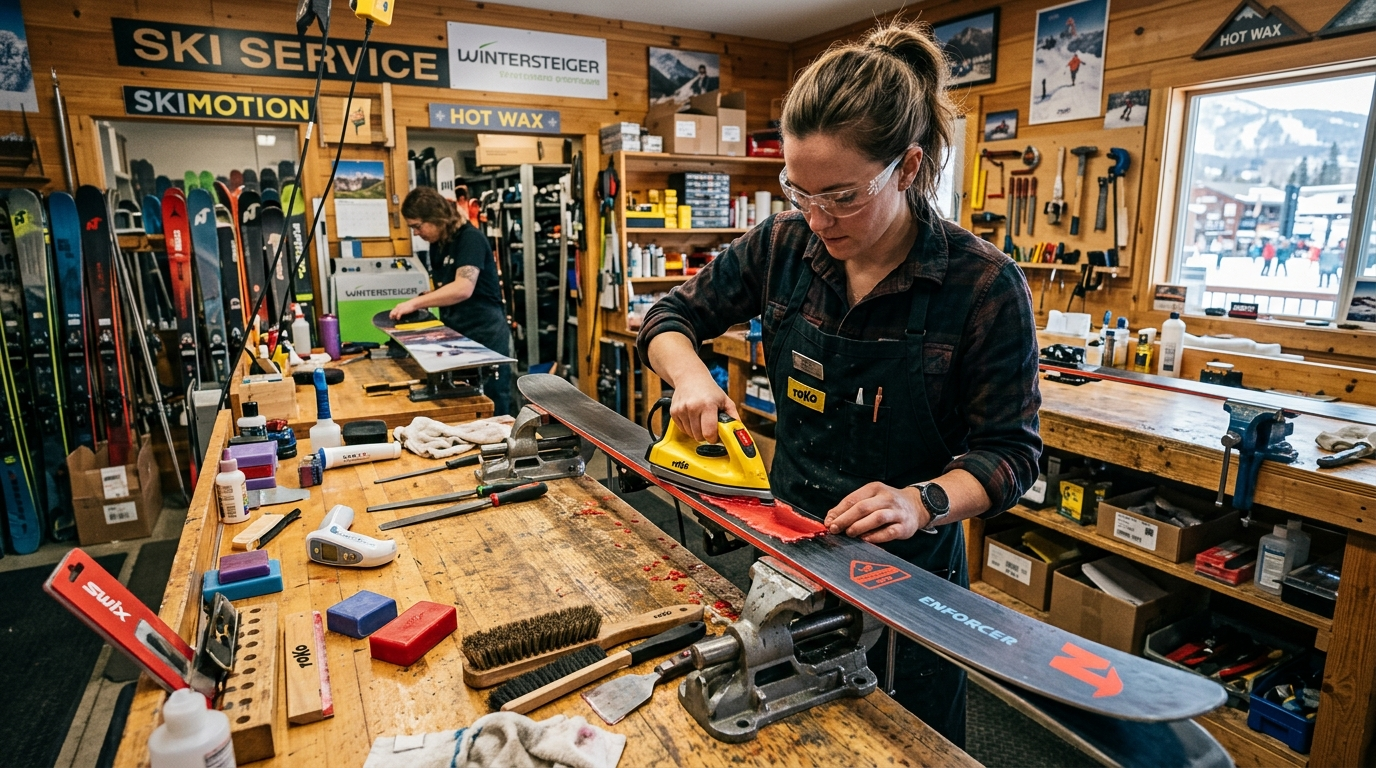
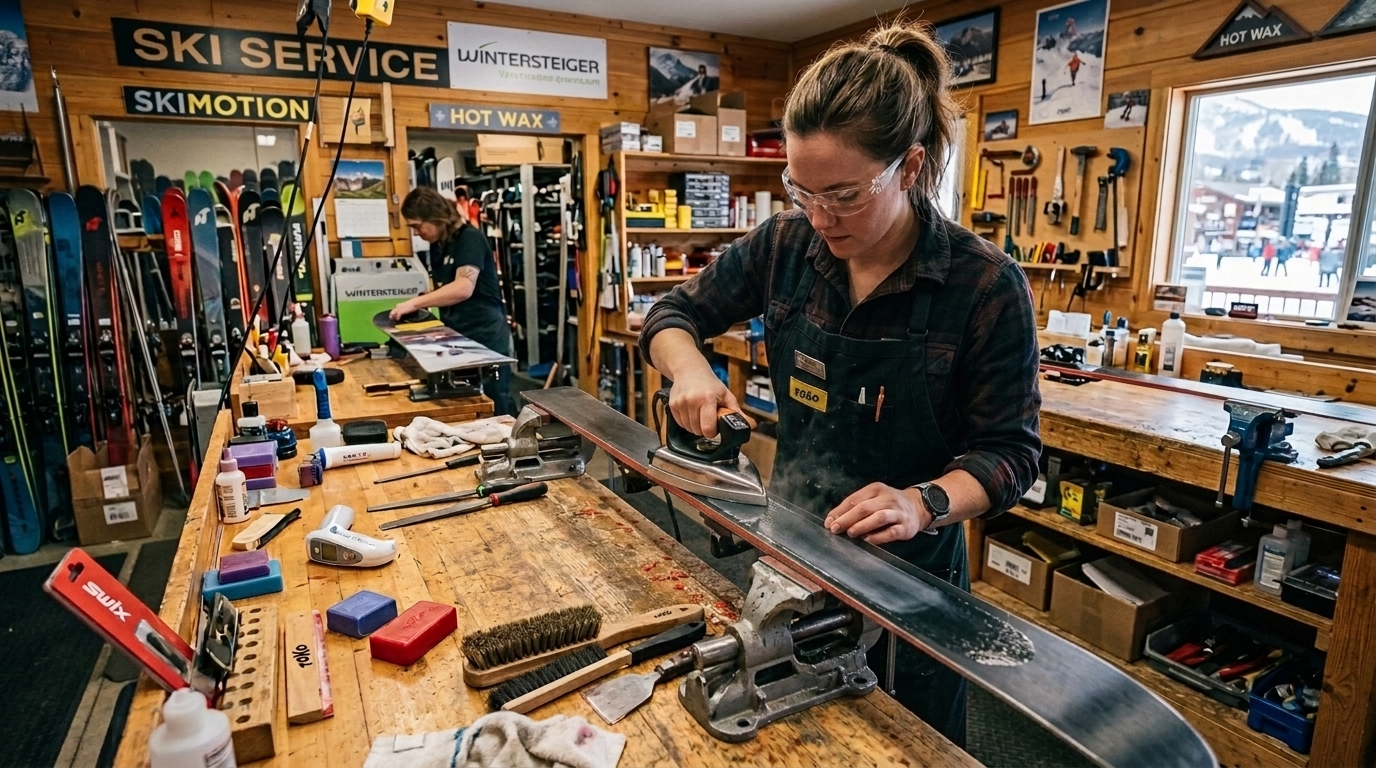
Ski shop showcase: centred hero and booking bar, new tuning-workshop photo

diff --git a/docs/ski-shop/index.html b/docs/ski-shop/index.html
@@ -200,21 +200,34 @@
     }
     .hero .container {
       width: 100%;
-      max-width: 1380px;
+      max-width: 100%;
+      margin: 0;
+      padding: 0;
     }
     .hero-split-grid {
       width: 100%;
       position: relative;
       z-index: 2;
       display: grid;
-      grid-template-columns: 1fr auto;
-      gap: 56px;
-      align-items: flex-start;
-      justify-content: space-between;
+      grid-template-columns: 1fr minmax(auto, 760px) 1fr;
+      align-items: center;
+    }
+    .hero-split-grid::before {
+      content: "";
+      display: block;
+      grid-column: 1;
     }
     .hero-content {
+      grid-column: 2;
       color: #FFFFFF;
-      max-width: 650px;
+      max-width: 760px;
+      width: 100%;
+      margin: 0 auto;
+      text-align: center;
+      display: flex;
+      flex-direction: column;
+      align-items: center;
+      padding: 0 16px;
     }
     .hero-tagline {
       display: inline-flex;
@@ -229,7 +242,7 @@
       font-weight: 700;
       letter-spacing: 0.5px;
       text-transform: uppercase;
-      margin-bottom: 20px;
+      margin: 0 auto 20px auto;
     }
     .hero h2 {
       font-family: var(--font-display);
@@ -239,13 +252,16 @@
       letter-spacing: -1px;
       margin-bottom: 18px;
       text-shadow: 0 2px 10px rgba(0, 0, 0, 0.35);
+      text-align: center;
+      max-width: 760px;
     }
     .hero p.lead {
       font-size: clamp(1rem, 1.8vw, 1.2rem);
       line-height: 1.6;
       color: #F1F5F9;
-      margin-bottom: 28px;
-      max-width: 580px;
+      margin: 0 auto 28px auto;
+      max-width: 620px;
+      text-align: center;
     }
 
     /* Hero Booking Bar */
@@ -258,6 +274,10 @@
       grid-template-columns: repeat(auto-fit, minmax(140px, 1fr)) 150px;
       gap: 14px;
       align-items: center;
+      width: 100%;
+      max-width: 780px;
+      margin: 0 auto;
+      text-align: left;
     }
     .field-box {
       border-right: 1px solid var(--line-subtle);
@@ -308,8 +328,9 @@
 
     /* Compact Frosted Alpine Snow Conditions HUD (Blends with mountain hero) */
     .snow-tracker-card {
+      grid-column: 3;
       width: 100%;
-      max-width: 290px;
+      max-width: 280px;
       background: rgba(255, 255, 255, 0.88);
       backdrop-filter: blur(16px);
       -webkit-backdrop-filter: blur(16px);
@@ -320,9 +341,9 @@
       position: relative;
       overflow: hidden;
       color: var(--ink-primary);
-      justify-self: end;
-      align-self: flex-start;
-      margin-top: 4px;
+      justify-self: center;
+      align-self: center;
+      margin: 0 auto;
     }
     .snow-tracker-card::before {
       content: "";
@@ -1147,9 +1168,27 @@
     }
 
     /* Responsive */
+    @media (max-width: 1180px) {
+      .hero-split-grid {
+        grid-template-columns: 1fr;
+        gap: 32px;
+        padding: 0 24px;
+      }
+      .hero-split-grid::before {
+        display: none;
+      }
+      .hero-content {
+        grid-column: 1;
+        max-width: 760px;
+      }
+      .snow-tracker-card {
+        grid-column: 1;
+        max-width: 360px;
+        margin: 0 auto;
+        justify-self: center;
+      }
+    }
     @media (max-width: 960px) {
-      .hero-split-grid { grid-template-columns: 1fr; }
-      .snow-tracker-card { max-width: 100%; margin-top: 24px; justify-self: stretch; }
       .story-grid, .workshop-grid, .fleet-banner-card, .hotline-card { grid-template-columns: 1fr; }
       .footer-grid { grid-template-columns: 1fr 1fr; }
       .nav-menu { display: none; }
@@ -1291,7 +1330,7 @@
           </div>
 
           <!-- Real-time Rental Calculator Feedback Badge -->
-          <div id="bookingEstimateBadge" style="margin-top: 14px; font-size: 13.5px; font-weight: 600; color: var(--mountain-red); background: rgba(255, 255, 255, 0.94); backdrop-filter: blur(10px); padding: 8px 18px; border-radius: 9999px; display: inline-flex; align-items: center; gap: 8px; border: 1px solid rgba(217, 56, 30, 0.22); box-shadow: var(--shadow-subtle);">
+          <div id="bookingEstimateBadge" style="margin: 14px auto 0 auto; font-size: 13.5px; font-weight: 600; color: var(--mountain-red); background: rgba(255, 255, 255, 0.94); backdrop-filter: blur(10px); padding: 8px 18px; border-radius: 9999px; display: inline-flex; align-items: center; justify-content: center; gap: 8px; border: 1px solid rgba(217, 56, 30, 0.22); box-shadow: var(--shadow-subtle);">
             <span>⚡ Rate Calculation:</span>
             <span id="bookingEstimateText">3 Days @ $63.75/day = $191.25 CAD (15% Multi-Day Discount Applied)</span>
           </div>

diff --git a/shop-showcase/index.html b/shop-showcase/index.html
@@ -200,21 +200,34 @@
     }
     .hero .container {
       width: 100%;
-      max-width: 1380px;
+      max-width: 100%;
+      margin: 0;
+      padding: 0;
     }
     .hero-split-grid {
       width: 100%;
       position: relative;
       z-index: 2;
       display: grid;
-      grid-template-columns: 1fr auto;
-      gap: 56px;
-      align-items: flex-start;
-      justify-content: space-between;
+      grid-template-columns: 1fr minmax(auto, 760px) 1fr;
+      align-items: center;
+    }
+    .hero-split-grid::before {
+      content: "";
+      display: block;
+      grid-column: 1;
     }
     .hero-content {
+      grid-column: 2;
       color: #FFFFFF;
-      max-width: 650px;
+      max-width: 760px;
+      width: 100%;
+      margin: 0 auto;
+      text-align: center;
+      display: flex;
+      flex-direction: column;
+      align-items: center;
+      padding: 0 16px;
     }
     .hero-tagline {
       display: inline-flex;
@@ -229,7 +242,7 @@
       font-weight: 700;
       letter-spacing: 0.5px;
       text-transform: uppercase;
-      margin-bottom: 20px;
+      margin: 0 auto 20px auto;
     }
     .hero h2 {
       font-family: var(--font-display);
@@ -239,13 +252,16 @@
       letter-spacing: -1px;
       margin-bottom: 18px;
       text-shadow: 0 2px 10px rgba(0, 0, 0, 0.35);
+      text-align: center;
+      max-width: 760px;
     }
     .hero p.lead {
       font-size: clamp(1rem, 1.8vw, 1.2rem);
       line-height: 1.6;
       color: #F1F5F9;
-      margin-bottom: 28px;
-      max-width: 580px;
+      margin: 0 auto 28px auto;
+      max-width: 620px;
+      text-align: center;
     }
 
     /* Hero Booking Bar */
@@ -258,6 +274,10 @@
       grid-template-columns: repeat(auto-fit, minmax(140px, 1fr)) 150px;
       gap: 14px;
       align-items: center;
+      width: 100%;
+      max-width: 780px;
+      margin: 0 auto;
+      text-align: left;
     }
     .field-box {
       border-right: 1px solid var(--line-subtle);
@@ -308,8 +328,9 @@
 
     /* Compact Frosted Alpine Snow Conditions HUD (Blends with mountain hero) */
     .snow-tracker-card {
+      grid-column: 3;
       width: 100%;
-      max-width: 290px;
+      max-width: 280px;
       background: rgba(255, 255, 255, 0.88);
       backdrop-filter: blur(16px);
       -webkit-backdrop-filter: blur(16px);
@@ -320,9 +341,9 @@
       position: relative;
       overflow: hidden;
       color: var(--ink-primary);
-      justify-self: end;
-      align-self: flex-start;
-      margin-top: 4px;
+      justify-self: center;
+      align-self: center;
+      margin: 0 auto;
     }
     .snow-tracker-card::before {
       content: "";
@@ -1147,9 +1168,27 @@
     }
 
     /* Responsive */
+    @media (max-width: 1180px) {
+      .hero-split-grid {
+        grid-template-columns: 1fr;
+        gap: 32px;
+        padding: 0 24px;
+      }
+      .hero-split-grid::before {
+        display: none;
+      }
+      .hero-content {
+        grid-column: 1;
+        max-width: 760px;
+      }
+      .snow-tracker-card {
+        grid-column: 1;
+        max-width: 360px;
+        margin: 0 auto;
+        justify-self: center;
+      }
+    }
     @media (max-width: 960px) {
-      .hero-split-grid { grid-template-columns: 1fr; }
-      .snow-tracker-card { max-width: 100%; margin-top: 24px; justify-self: stretch; }
       .story-grid, .workshop-grid, .fleet-banner-card, .hotline-card { grid-template-columns: 1fr; }
       .footer-grid { grid-template-columns: 1fr 1fr; }
       .nav-menu { display: none; }
@@ -1289,7 +1328,7 @@
           </div>
 
           <!-- Real-time Rental Calculator Feedback Badge -->
-          <div id="bookingEstimateBadge" style="margin-top: 14px; font-size: 13.5px; font-weight: 600; color: var(--mountain-red); background: rgba(255, 255, 255, 0.94); backdrop-filter: blur(10px); padding: 8px 18px; border-radius: 9999px; display: inline-flex; align-items: center; gap: 8px; border: 1px solid rgba(217, 56, 30, 0.22); box-shadow: var(--shadow-subtle);">
+          <div id="bookingEstimateBadge" style="margin: 14px auto 0 auto; font-size: 13.5px; font-weight: 600; color: var(--mountain-red); background: rgba(255, 255, 255, 0.94); backdrop-filter: blur(10px); padding: 8px 18px; border-radius: 9999px; display: inline-flex; align-items: center; justify-content: center; gap: 8px; border: 1px solid rgba(217, 56, 30, 0.22); box-shadow: var(--shadow-subtle);">
             <span>⚡ Rate Calculation:</span>
             <span id="bookingEstimateText">3 Days @ $63.75/day = $191.25 CAD (15% Multi-Day Discount Applied)</span>
           </div>
